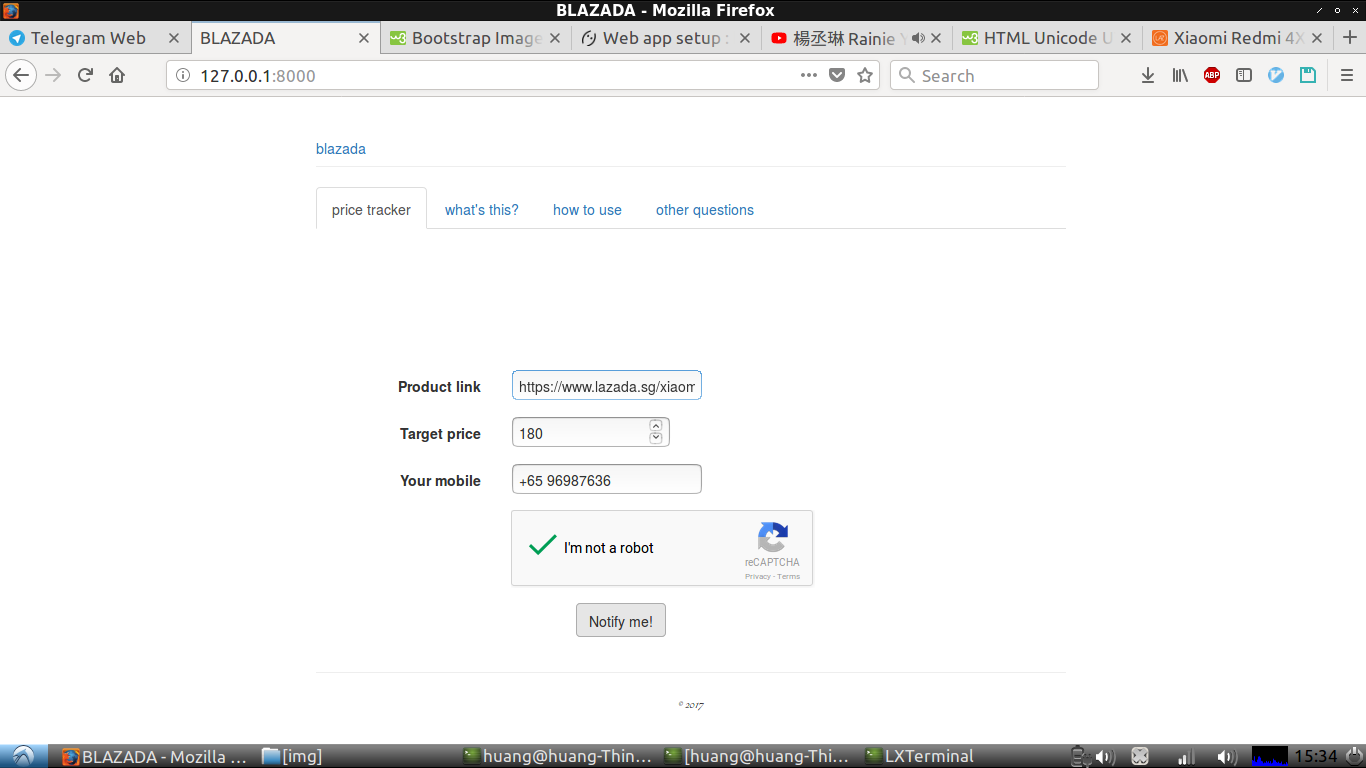
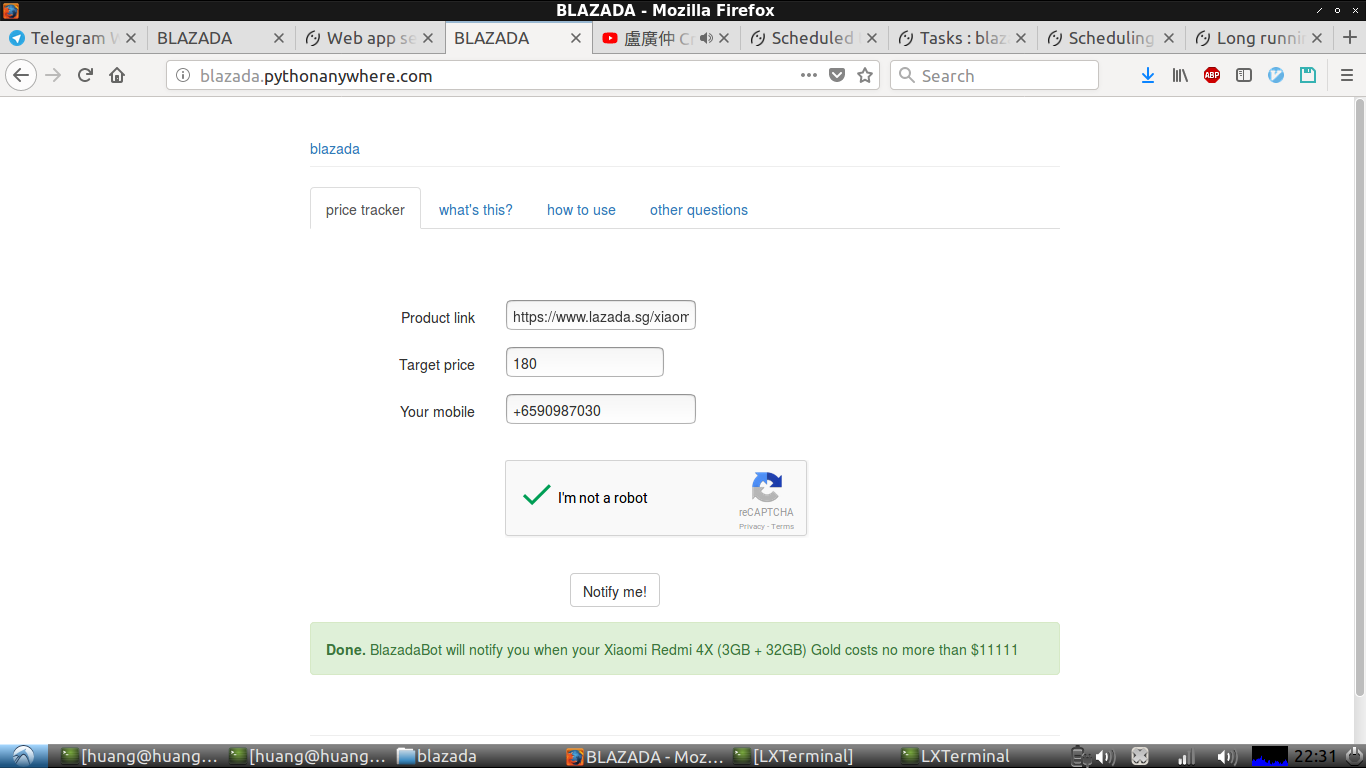
edited telebot, updated screenshot for guide

diff --git a/stayingAliveBot.py b/stayingAliveBot.py
@@ -42,7 +42,7 @@ def check(bot, update):
                 bot.send_message(chat_id=update.message.chat_id, text="Target price: " +  str(trackee.target) + "\n  Item: " + trackee.name)
     except Exception as error:
         if (repr(error))=="DoesNotExist('Tracker matching query does not exist.',)":
-            bot.send_message(chat_id=update.message.chat_id, text="You don't seem to be in our database. Try tracking something on the Blazada website and starting the bot again.")
+            bot.send_message(chat_id=update.message.chat_id, text="You don't seem to be in our database. Try tracking something on blazada.pythonanywhere.com and starting the bot again.")
         print(repr(error))
 
 def forgetMe(bot, update):
@@ -70,9 +70,20 @@ updater.start_polling()
 
 
 def echo(bot, update):
+    def say(text):
+        chat_id=update.message.chat_id
+        bot.send_message(chat_id=chat_id, text=text)
+    
+    text = update.message.text
     try:
-        if update.message.text=='1':
-            bot.send_message(chat_id=update.message.chat_id, text='2, buckle my shoe')
+        if text=='1':
+            say("2, buckle my shoe")
+        elif text=='Say my name':
+            say("!xobile")
+        elif ('please' in text) or ('Please' in text):
+            say("Oh what a polite dearie you are.")
+        elif text=='hi' or text=='Hi':
+            say("Salutations!")
     except Exception as error:
         print(repr(error))
 
@@ -89,7 +100,7 @@ def matchMobile(bot, update):
     except Exception as error:
         print(repr(error))
         if (repr(error))=="DoesNotExist('Tracker matching query does not exist.',)":
-            bot.send_message(chat_id=update.message.chat_id, text="Looks like you aren't tracking anything yet. Track something on blazada.com before starting the bot again!")
+            bot.send_message(chat_id=update.message.chat_id, text="Looks like you aren't tracking anything yet. Track something on blazada.pythonanywhere.com before starting the bot again!")
 
 echo_handler = MessageHandler(Filters.text, echo)
 dispatcher.add_handler(echo_handler)
